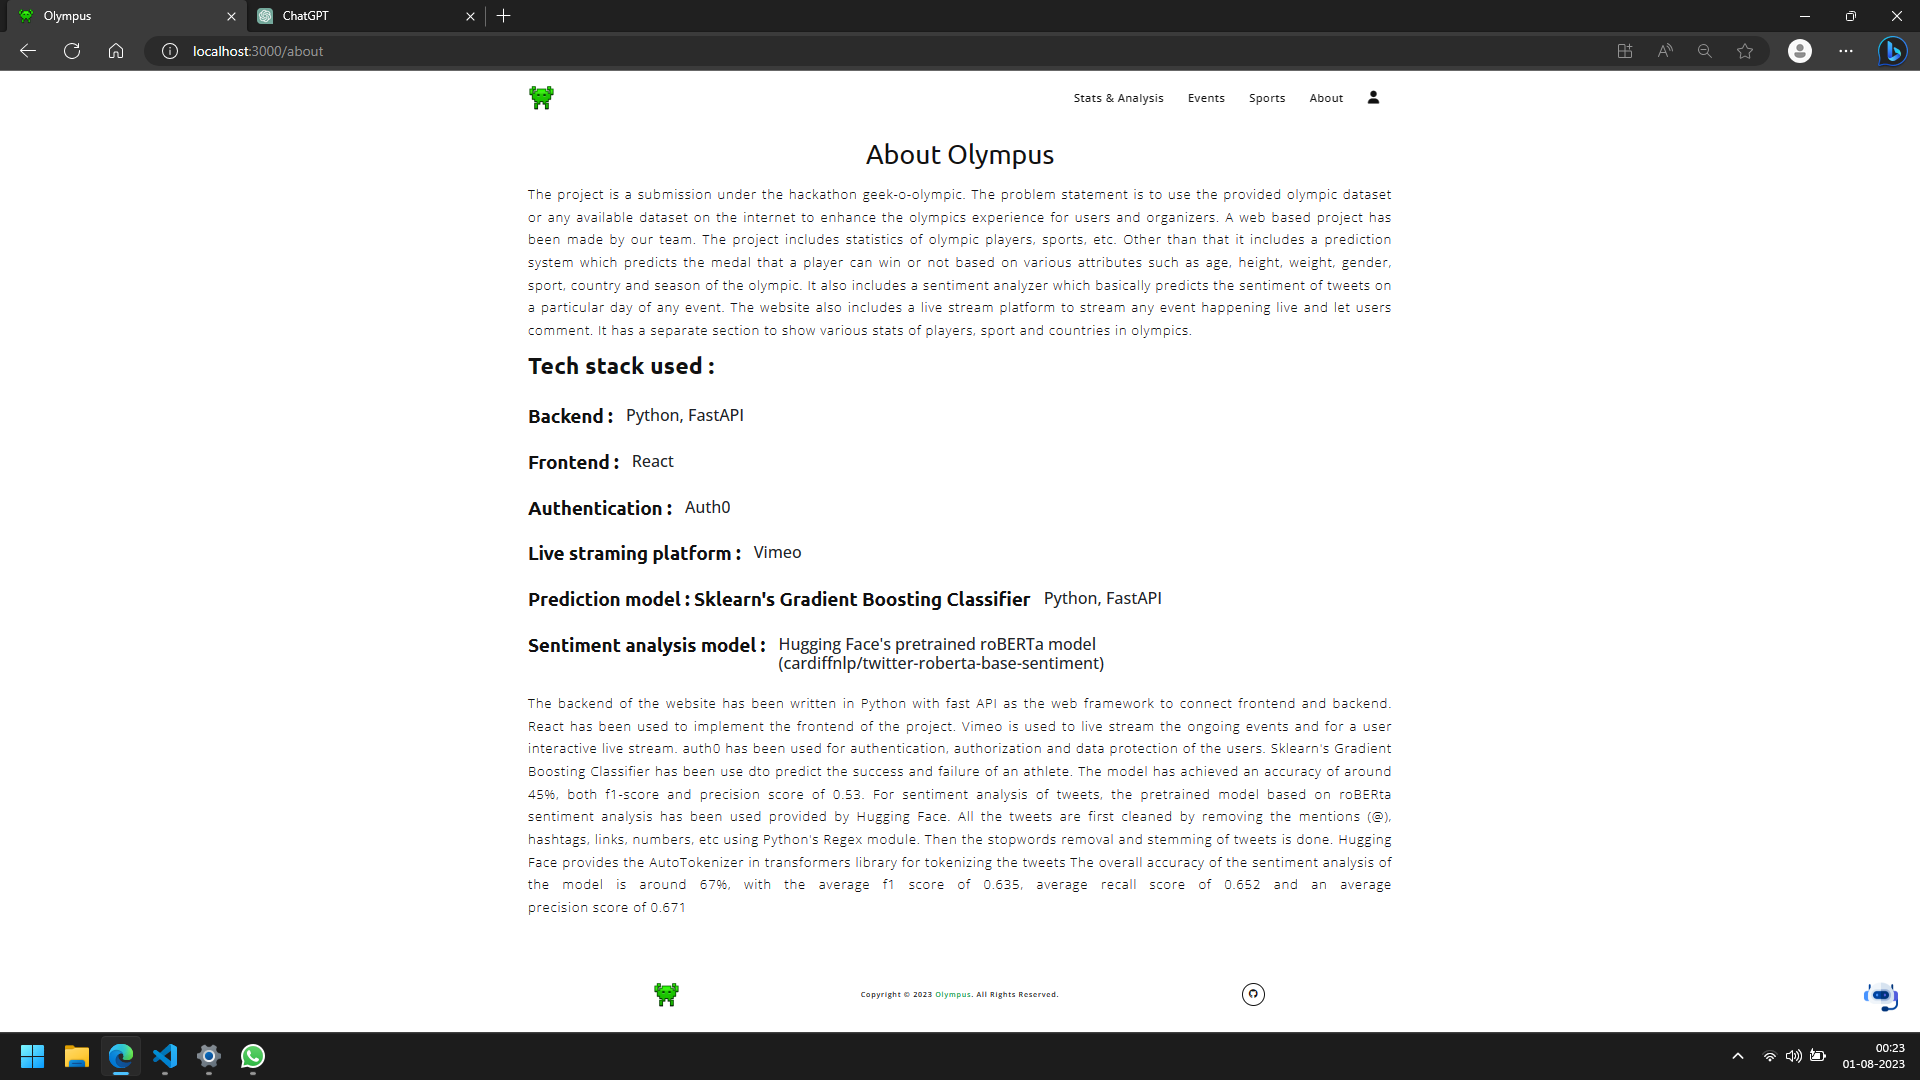
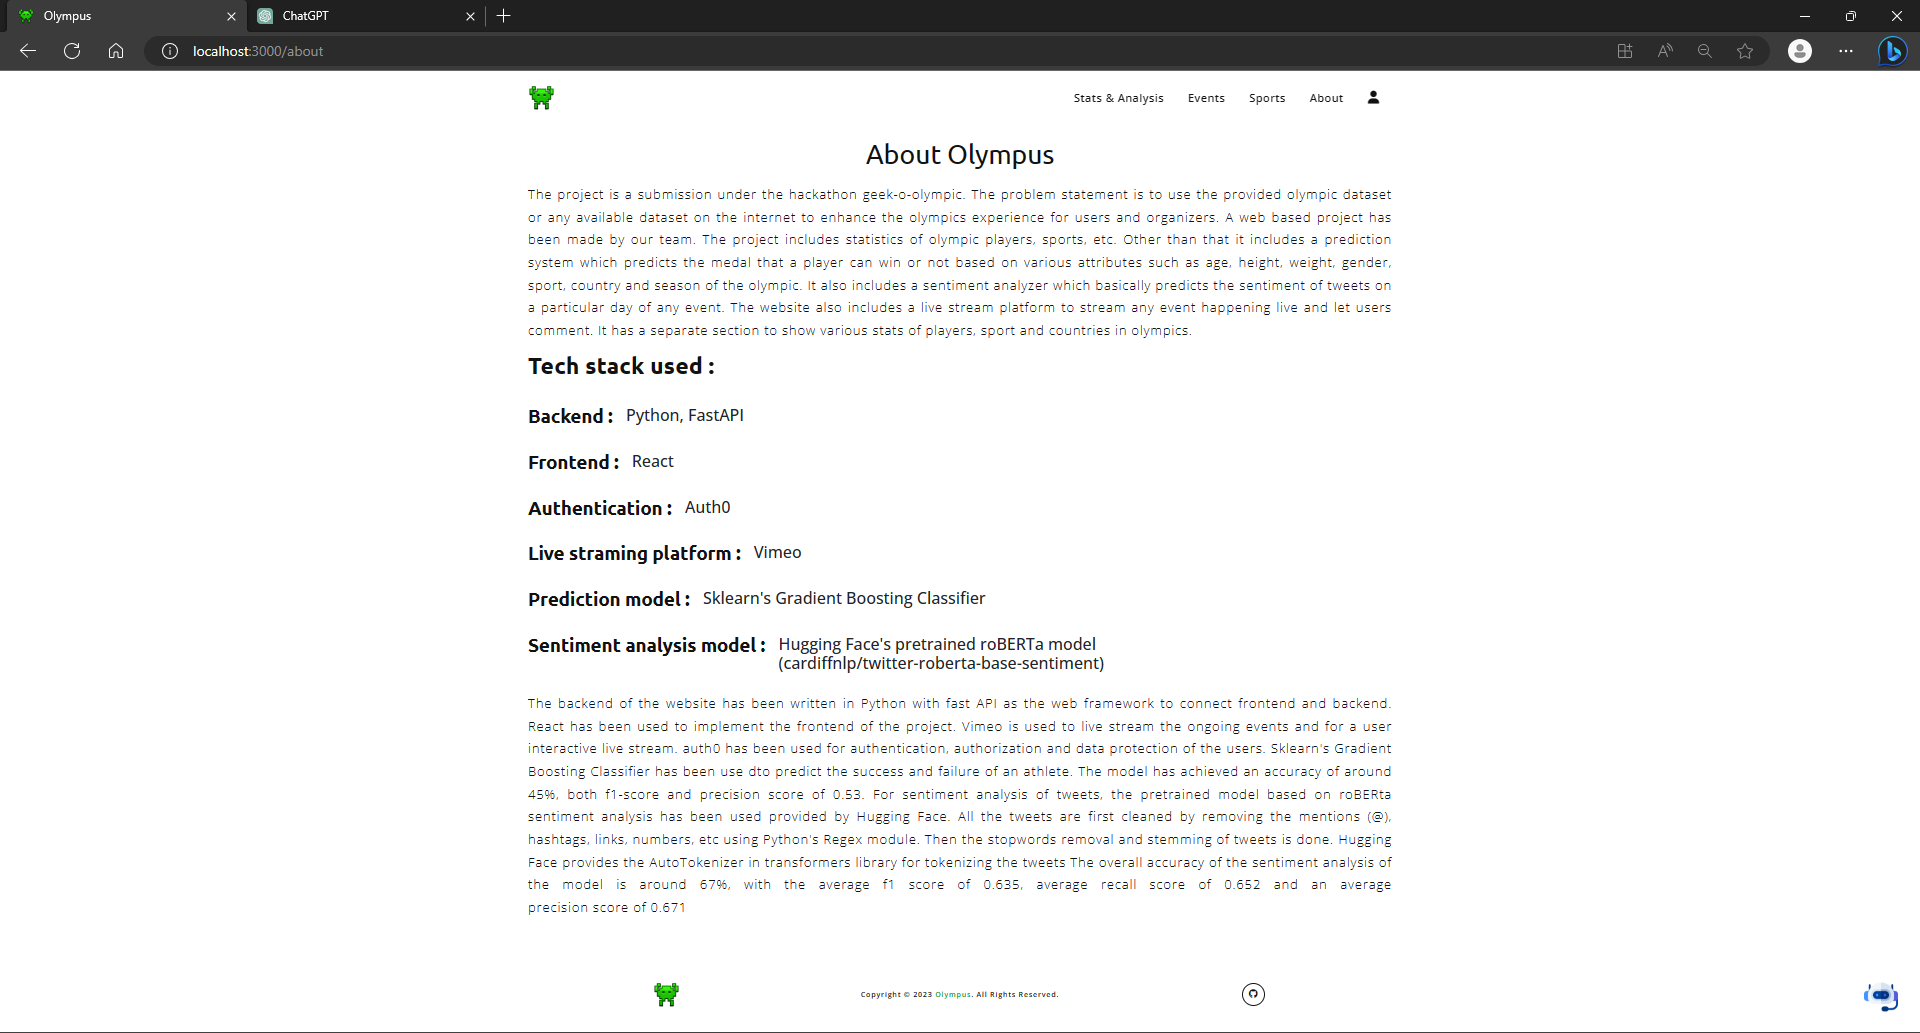
Minor Bugs Fixes

Changed region(s): [[0.25, 0.1239, 0.7188, 0.8984], [0.0, 0.8984, 1.0, 1.0], [0.0, 0.0, 1.0, 0.1239]]

diff --git a/frontEnd/src/pages/AboutPage.tsx b/frontEnd/src/pages/AboutPage.tsx
@@ -3,24 +3,51 @@ import React from 'react'
 export function AboutPage() {
     return (
         <div className='container'>
-            <h2 style={{
+            <h1 style={{
                 textAlign: 'center'
-            }}>About Olympus</h2>
+            }}>About Olympus</h1>
             <p style={{
-                textAlign: 'justify'
-            }}>A brief introduction about the project:
-                The project is a submission under the hackathon geek-o-olympic. The problem statement is to use the provided olympic dataset or any available dataset on the internet to enhance the olympics experience for users and organizers. A web based project has been made by our team. The project includes statistics of olympic players, sports, etc. Other than that it includes a prediction system which predicts the medal that a player can win or not based on various attributes such as age, height, weight, gender, sport, country and season of the olympic. It also includes a sentiment analyzer which basically predicts the sentiment of tweets on a particular day of any event. The website also includes a live stream platform to stream any event happening live and let users comment. It has a separate section to show various stats of players, sport and countries in olympics. Tech stack used:
-                Backend: Python
-                Frontend: React
-                Live straming platform: Vimeo
-                Authentication: auth0
-                Prediction model: Sklearn's Gradient Boosting Classifier
-                Sentiment analysis model: Hugging Face's pretrained roBERTa model (cardiffnlp/twitter-roberta-base-sentiment)
+                textAlign: 'justify',
+                fontSize: 20
+            }}>
+                The project is a submission under the hackathon geek-o-olympic. The problem statement is to use the provided olympic dataset or any available dataset on the internet to enhance the olympics experience for users and organizers. A web based project has been made by our team. The project includes statistics of olympic players, sports, etc. Other than that it includes a prediction system which predicts the medal that a player can win or not based on various attributes such as age, height, weight, gender, sport, country and season of the olympic. It also includes a sentiment analyzer which basically predicts the sentiment of tweets on a particular day of any event. The website also includes a live stream platform to stream any event happening live and let users comment. It has a separate section to show various stats of players, sport and countries in olympics.</p>
+            <div>
+                <h2>Tech stack used  :</h2>
+                <br />
+                <div className='d-flex' style={{ columnGap: 20, marginBottom: 20 }}>
+                    <h3>Backend : </h3>
+                    <h4>Python, FastAPI</h4>
+                </div>
+                <div className='d-flex' style={{ columnGap: 20, marginBottom: 20 }}>
+                    <h3>Frontend : </h3>
+                    <h4>React</h4>
+                </div>
+                <div className='d-flex' style={{ columnGap: 20, marginBottom: 20 }}>
+                    <h3>Authentication : </h3>
+                    <h4>Auth0</h4>
+                </div>
+                <div className='d-flex' style={{ columnGap: 20, marginBottom: 20 }}>
+                    <h3>Live straming platform : </h3>
+                    <h4>Vimeo</h4>
+                </div>
+                <div className='d-flex' style={{ columnGap: 20, marginBottom: 20 }}>
+                    <h3>Prediction model : </h3>
+                    <h4>Sklearn's Gradient Boosting Classifier</h4>
+                </div>
+                <div className='d-flex' style={{ columnGap: 20, marginBottom: 20 }}>
+                    <h3>Sentiment analysis model : </h3>
+                    <h4>Hugging Face's pretrained roBERTa model<br />(cardiffnlp/twitter-roberta-base-sentiment)</h4>
+                </div>
+            </div>
+            <p style={{
+                textAlign: 'justify',
+                fontSize: 20
+            }}>
                 The backend of the website has been written in Python with fast API as the web framework to connect frontend and backend.
                 React has been used to implement the frontend of the project. Vimeo is used to live stream the ongoing events and for a user interactive live stream.
                 auth0 has been used for authentication, authorization and data protection of the users.
                 Sklearn's Gradient Boosting Classifier has been use dto predict the success and failure of an athlete. The model has achieved an accuracy of around 45%, both f1-score and precision score of 0.53.
                 For sentiment analysis of tweets, the pretrained model based on roBERta sentiment analysis has been used provided by Hugging Face. All the tweets are first cleaned by removing the mentions (@), hashtags, links, numbers, etc using Python's Regex module. Then the stopwords removal and stemming of tweets is done. Hugging Face provides the AutoTokenizer in transformers library for tokenizing the tweets The overall accuracy of the sentiment analysis of the model is around 67%, with the average f1 score of 0.635, average recall score of 0.652 and an average precision score of 0.671</p>
-        </div>
+        </div >
     )
 }

diff --git a/frontEnd/src/pages/event/CreateEventPage.tsx b/frontEnd/src/pages/event/CreateEventPage.tsx
@@ -7,6 +7,7 @@ import { ErrorPendingComp } from "src/components";
 import { countryNames, sportNames } from "src/data";
 import { useEffect, useState } from "react";
 import { primaryColor } from "src/util";
+import { useNavigate, useNavigation } from "react-router-dom";
 
 export function CreateEventPage() {
 
@@ -121,20 +122,12 @@ function StreamForm({ CB }: { CB: Function }) {
         bodyContent.append('privacy', privacy)
         bodyContent.append('video', video[0])
 
-        // fetchData({
-        //     path: `/stream`,
-        //     method: "POST",
-        //     noheaders: true,
-        //     body: bodyContent
-        // });
-        setIsPending(true);
-        setTimeout(() => {
-            setIsPending(false);
-            setData({
-                "stream_id": { "id": "e340bdd5-51f8-4e4f-98cf-b586d35bc44c" },
-                "video_id": "850213425"
-            })
-        }, 2000)
+        fetchData({
+            path: `/stream`,
+            method: "POST",
+            noheaders: true,
+            body: bodyContent
+        });
     }
 
     return (
@@ -231,7 +224,7 @@ export function EventForm({
     const { data, isPending, fetchData, error } = useFetch();
     const { data: dataP, isPending: isPendingP, fetchData: fD, error: errorS } = useFetch();
     console.log(uploadData);
-
+    const navigate = useNavigate()
 
     const { register, handleSubmit, formState: { errors }, watch, setValue } = useForm({
         defaultValues: {
@@ -252,6 +245,12 @@ export function EventForm({
             path: `/players/sport/${sportId}`
         })
     }, [sportId])
+
+    useEffect(() => {
+        if (!data || !data?.id) return;
+        navigate(`/event/${data.id}`)
+    }, [data])
+
 
     useEffect(() => {
         if (dataP) setUploadData({ ...uData, players: dataP })

diff --git a/frontEnd/src/pages/sport/SportsPage.tsx b/frontEnd/src/pages/sport/SportsPage.tsx
@@ -55,10 +55,10 @@ export function SportsPage() {
                         }}
                     >
                         <h2 className="m-0">Sports</h2>
-                        <Link className="main-btn" to={'/create-sport'}>
+                        {/* <Link className="main-btn" to={'/create-sport'}>
                             <i className="fa-solid fa-plus me-2" />
                             <span>Create Sport</span>
-                        </Link>
+                        </Link> */}
                     </div>
                 </div>
             </div>

diff --git a/frontEnd/src/pages/analysis/SentimentAnalysisPage.tsx b/frontEnd/src/pages/analysis/SentimentAnalysisPage.tsx
@@ -102,11 +102,11 @@ function SentimentResult({
         switch (data.sentiment) {
             case 'Positive':
                 setIconName('far fa-smile')
-                setIconColor('#FFD700');
+                setIconColor("#00cc00")
                 break;
             case 'Neutral':
                 setIconName('far fa-meh')
-                setIconColor('#808080')
+                setIconColor('#FFD700');
                 break;
             case 'Angry':
                 setIconName('far fa-angry')

diff --git a/frontEnd/src/pages/event/EventStreamPage.tsx b/frontEnd/src/pages/event/EventStreamPage.tsx
@@ -3,8 +3,7 @@ import { Link, useParams } from "react-router-dom";
 import { ErrorPendingComp } from "src/components";
 import { useFetch } from "src/hooks"
 import { timeHourMin } from "src/util/time";
-import { SentimentAnalysisComp } from "../analysis/SentimentAnalysisPage";
-import { StreamComments } from "src/components/StreamComments";
+
 import { StreamComp } from "src/components/StreamComp";
 
 export function EventStreamPage() {

diff --git a/frontEnd/src/components/StreamPage copy.tsx b/frontEnd/src/components/StreamPage copy.tsx
@@ -2,7 +2,7 @@ import { useEffect, useState } from "react";
 import { useParams } from "react-router-dom";
 import { ErrorPendingComp } from "src/components";
 import { useFetch } from "src/hooks";
-import { SentimentAnalysisComp } from "../analysis/SentimentAnalysisPage";
+import { SentimentAnalysisComp } from "../pages/analysis/SentimentAnalysisPage";
 import { StreamComments } from "src/components/StreamComments";
 
 //Share - Start

diff --git a/frontEnd/src/components/StreamComp.tsx b/frontEnd/src/components/StreamComp.tsx
@@ -1,5 +1,5 @@
 import { useEffect, useState } from "react";
-import { useParams } from "react-router-dom";
+
 import { ErrorPendingComp } from "src/components";
 import { useFetch } from "src/hooks";
 import { StreamComments } from "./StreamComments";

diff --git a/api/events/model.py b/api/events/model.py
@@ -27,8 +27,8 @@ class CreateEvent(EventModel):
 
     def __init__(self, **kwargs):
         super().__init__(**kwargs)
-        if not self.name:
-            self.name = f"len({self.players} At {self.location})"
+        if not self.event_name:
+            self.event_name = f"len({self.players} At {self.location})"
 
 
 class GetEvent(EventModel):
@@ -66,18 +66,29 @@ class Event(Table):
     @classmethod
     async def prepare_stmt(cls):
         cls.__create_event = await DB.connection.prepare(
-            'INSERT INTO events ("type", stream_id, sport_id, location) VALUES ($1, $2, $3, $4) RETURNING id')
+            'INSERT INTO events ("type", stream_id, sport_id, location) VALUES ($1, $2, $3, $4) RETURNING id'
+        )
 
-        cls.__get_event = await DB.connection.prepare("SELECT e.id AS event_id, e.stream_id as stream_id, e.sport_id as sport_id, et.name AS event_type, e.name as event_name, e.location as location, e.date AS event_date, json_agg(json_build_object('player_id', p.id, 'name', p.name, 'country', p.country, 'dob', p.dob, 'sex', p.sex, 'height', p.height)) AS players FROM events e JOIN event_types et ON e.type = et.id LEFT JOIN players_in_event pie ON e.id = pie.event_id LEFT JOIN players p ON pie.player_id = p.id WHERE e.id = $1 GROUP BY e.id, et.name, e.stream_id, e.sport_id, e.name, e.location, e.date;")
+        cls.__get_event = await DB.connection.prepare(
+            "SELECT e.id AS event_id, e.stream_id as stream_id, e.sport_id as sport_id, et.name AS event_type, e.name as event_name, e.location as location, e.date AS event_date, json_agg(json_build_object('player_id', p.id, 'name', p.name, 'country', p.country, 'dob', p.dob, 'sex', p.sex, 'height', p.height)) AS players FROM events e JOIN event_types et ON e.type = et.id LEFT JOIN players_in_event pie ON e.id = pie.event_id LEFT JOIN players p ON pie.player_id = p.id WHERE e.id = $1 GROUP BY e.id, et.name, e.stream_id, e.sport_id, e.name, e.location, e.date;"
+        )
 
-        cls.__get_events = await DB.connection.prepare('SELECT e.id AS id, e.name AS event_name, e.sport_id AS sport_id, e.stream_id AS stream_id, e.date AS date, e.location AS location, et.name AS event_type FROM events e JOIN event_types et ON e.type = et.id;')
+        cls.__get_events = await DB.connection.prepare(
+            "SELECT e.id AS id, e.name AS event_name, e.sport_id AS sport_id, e.stream_id AS stream_id, e.date AS date, e.location AS location, et.name AS event_type FROM events e JOIN event_types et ON e.type = et.id;"
+        )
         cls.__get_event_types = await DB.connection.prepare("SELECT * from event_types")
-        cls.__create_pin = await DB.connection.prepare("INSERT into players_in_event (event_id, player_id) VALUES ($1, $2)")
+        cls.__create_pin = await DB.connection.prepare(
+            "INSERT into players_in_event (event_id, player_id) VALUES ($1, $2)"
+        )
 
     @classmethod
     async def create_event(cls, event: CreateEvent) -> UUID:
-        event_id = await cls.__create_event.fetchval(event.event_type, event.stream_id, event.sport_id, event.location)
-        await cls.__create_pin.executemany([(event_id, player) for player in event.players])
+        event_id = await cls.__create_event.fetchval(
+            event.event_type, event.stream_id, event.sport_id, event.location
+        )
+        await cls.__create_pin.executemany(
+            [(event_id, player) for player in event.players]
+        )
         return {"id": event_id}
 
     @classmethod
@@ -91,20 +102,38 @@ class Event(Table):
     @classmethod
     async def event_types(cls) -> List[EventType]:
         events = await cls.__get_event_types.fetch()
-        return [EventType(event_type_id=event["id"], event_name=event["name"]) for event in events]
+        return [
+            EventType(event_type_id=event["id"], event_name=event["name"])
+            for event in events
+        ]
 
     @classmethod
     def _get_event(cls, events) -> GetEvent:
-        return [GetEvent(event_id=event["event_id"], event_type=event["event_type"], event_name=event["event_name"],
-                         stream_id=event["stream_id"],
-                         sport_id=event["sport_id"],
-                         location=event["location"], date=event["event_date"],
-                         players=json.loads(event["players"]))
-                for event in events]
+        return [
+            GetEvent(
+                event_id=event["event_id"],
+                event_type=event["event_type"],
+                event_name=event["event_name"],
+                stream_id=event["stream_id"],
+                sport_id=event["sport_id"],
+                location=event["location"],
+                date=event["event_date"],
+                players=json.loads(event["players"]),
+            )
+            for event in events
+        ]
 
     @classmethod
     def _get_events(cls, events) -> List[_GetEvent]:
-        return [_GetEvent(event_id=event["id"], event_type=event["event_type"], event_name=event["event_name"],
-                          stream_id=event["stream_id"],
-                          sport_id=event["sport_id"],
-                          location=event["location"], date=event["date"]) for event in events]
+        return [
+            _GetEvent(
+                event_id=event["id"],
+                event_type=event["event_type"],
+                event_name=event["event_name"],
+                stream_id=event["stream_id"],
+                sport_id=event["sport_id"],
+                location=event["location"],
+                date=event["date"],
+            )
+            for event in events
+        ]

diff --git a/api/events/api.py b/api/events/api.py
@@ -6,7 +6,14 @@ from .model import CreateEvent, Event, GetEvent, _GetEvent
 from typing import List, Dict
 
 
-event_route = APIRouter(tags=["event", ], dependencies=[Depends(VerifyToken().verify), ])
+event_route = APIRouter(
+    tags=[
+        "event",
+    ],
+    dependencies=[
+        Depends(VerifyToken().verify),
+    ],
+)
 
 
 @event_route.get("/event/types")
@@ -20,7 +27,7 @@ async def get_events() -> List[_GetEvent]:
 
 
 @event_route.post("/event")
-async def add_event(event: CreateEvent) -> Dict[str, str]:
+async def add_event(event: CreateEvent) -> Dict[str, str | UUID]:
     return await Event.create_event(event)
 
 
